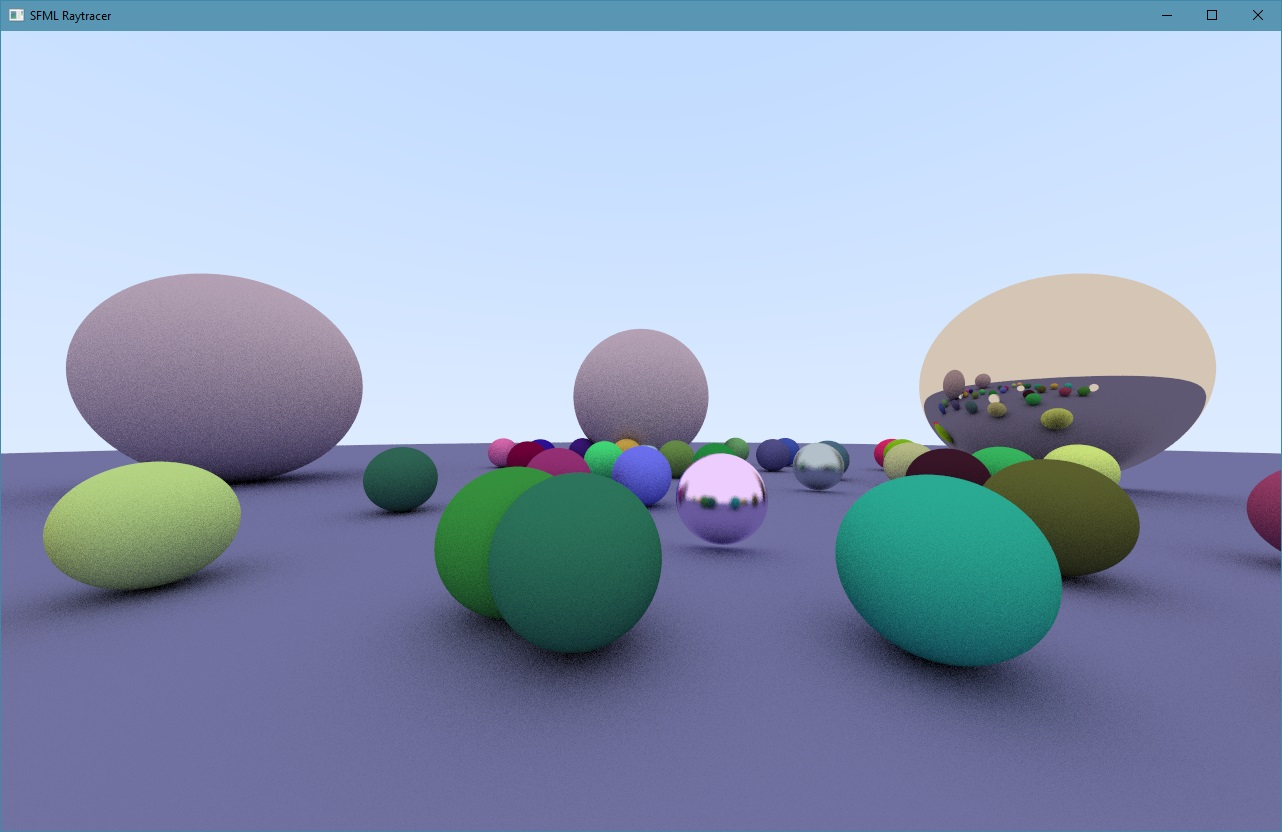
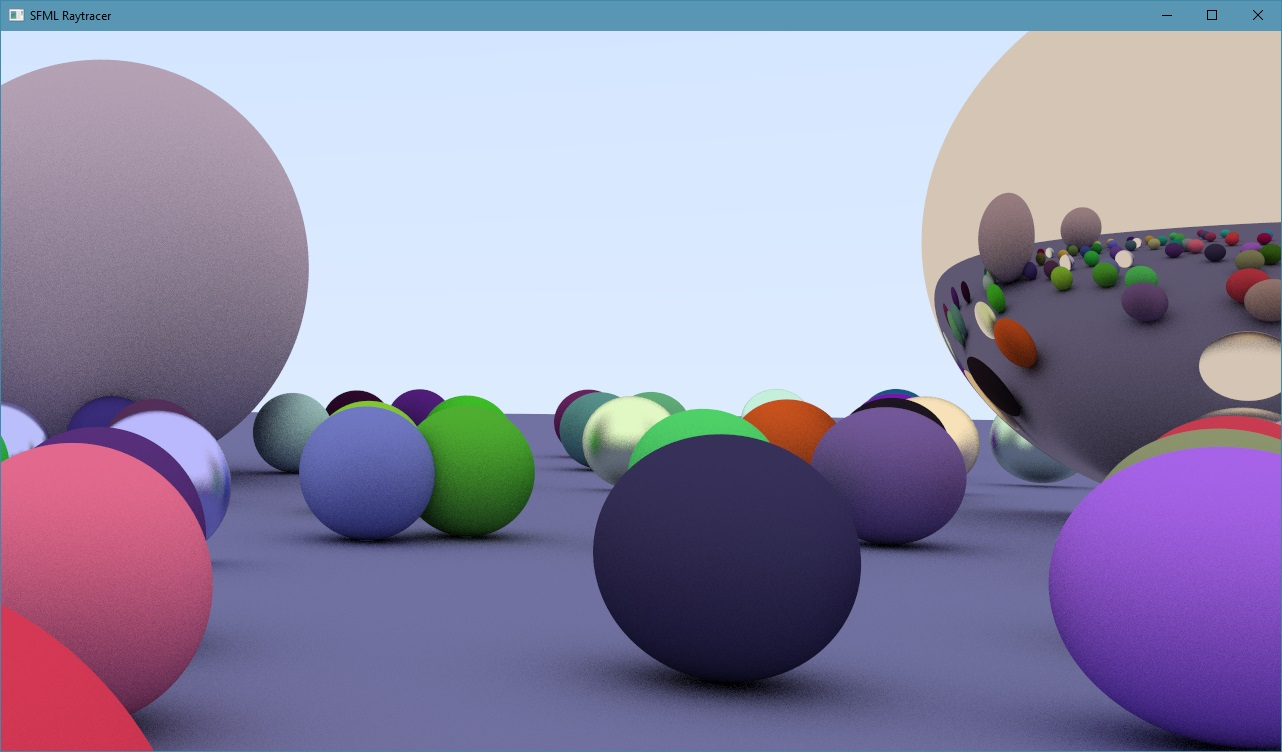
Update

diff --git a/src/main.cpp b/src/main.cpp
@@ -12,21 +12,23 @@ int main(int argc, char* argv[])
 	const int width = 640;
 	const int height = 480;
 	bool realtime = true;
-	int samples = 3;
+	int samples = 100;
 	int maxThreads = 16;
 	int sceneComplexity = 3;
-	float scale = 0.9f;
+	float scale = 0.75f;
 
 	sf::RenderWindow window(sf::VideoMode(width, height), "SFML Raytracer");
 
 	Raytracer raytracer(width, height, scale, maxThreads);
 	raytracer.SetStep(samples);
 
-	Camera camera(glm::vec3(0, 0.5f, 3), glm::vec3(0), glm::vec3(0, 1, 0), 90.0f, float(width) / float(height));
+	Camera camera(glm::vec3(1.5f, 0.45f, 2), glm::vec3(0), glm::vec3(0, 1, 0), 90.0f, float(width) / float(height));
 
 	auto scene = std::vector<Hitable*>();
 	SceneFactory::CreateSphereScene(scene, camera, sceneComplexity);
 	HitableList world(scene);
+
+	window.setKeyRepeatEnabled(false);
 
 	if (realtime)
 		raytracer.StartMT(camera, world);
@@ -34,18 +36,17 @@ int main(int argc, char* argv[])
 		raytracer.Render(camera, world);
 
 	sf::Clock gameTime;
+	sf::Event event;
 
 	while (window.isOpen())
 	{
 		gameTime.restart();
 
-		sf::Event event;
-
 		while (window.pollEvent(event))
 		{
 			if (event.type == sf::Event::Closed || event.key.code == sf::Keyboard::Escape)
 			{
-				//raytracer.Stop();
+				raytracer.Stop();
 				window.close();
 			}
 
@@ -74,17 +75,23 @@ int main(int argc, char* argv[])
 			}
 		}
 
-		float moveSpeed = 0.0005f;
+		float moveSpeed = 0.00025f;
 
 		if (sf::Keyboard::isKeyPressed(sf::Keyboard::Up) || sf::Keyboard::isKeyPressed(sf::Keyboard::Z))
 			camera.Translate(0, 0, -moveSpeed);
 		else if (sf::Keyboard::isKeyPressed(sf::Keyboard::Down) || sf::Keyboard::isKeyPressed(sf::Keyboard::S))
 			camera.Translate(0, 0, moveSpeed);
-		else if (sf::Keyboard::isKeyPressed(sf::Keyboard::Left) || sf::Keyboard::isKeyPressed(sf::Keyboard::Q))
+
+		if (sf::Keyboard::isKeyPressed(sf::Keyboard::Left) || sf::Keyboard::isKeyPressed(sf::Keyboard::Q))
 			camera.Translate(-moveSpeed, 0, 0);
 		else if (sf::Keyboard::isKeyPressed(sf::Keyboard::Right) || sf::Keyboard::isKeyPressed(sf::Keyboard::D))
 			camera.Translate(moveSpeed, 0, 0);
 
+		if (sf::Keyboard::isKeyPressed(sf::Keyboard::A))
+			camera.Translate(0, moveSpeed, 0);
+		else if (sf::Keyboard::isKeyPressed(sf::Keyboard::E))
+			camera.Translate(0, -moveSpeed, 0);
+		
 		window.clear(sf::Color::Black);
 		raytracer.PresentMT(window);
 		window.display();
